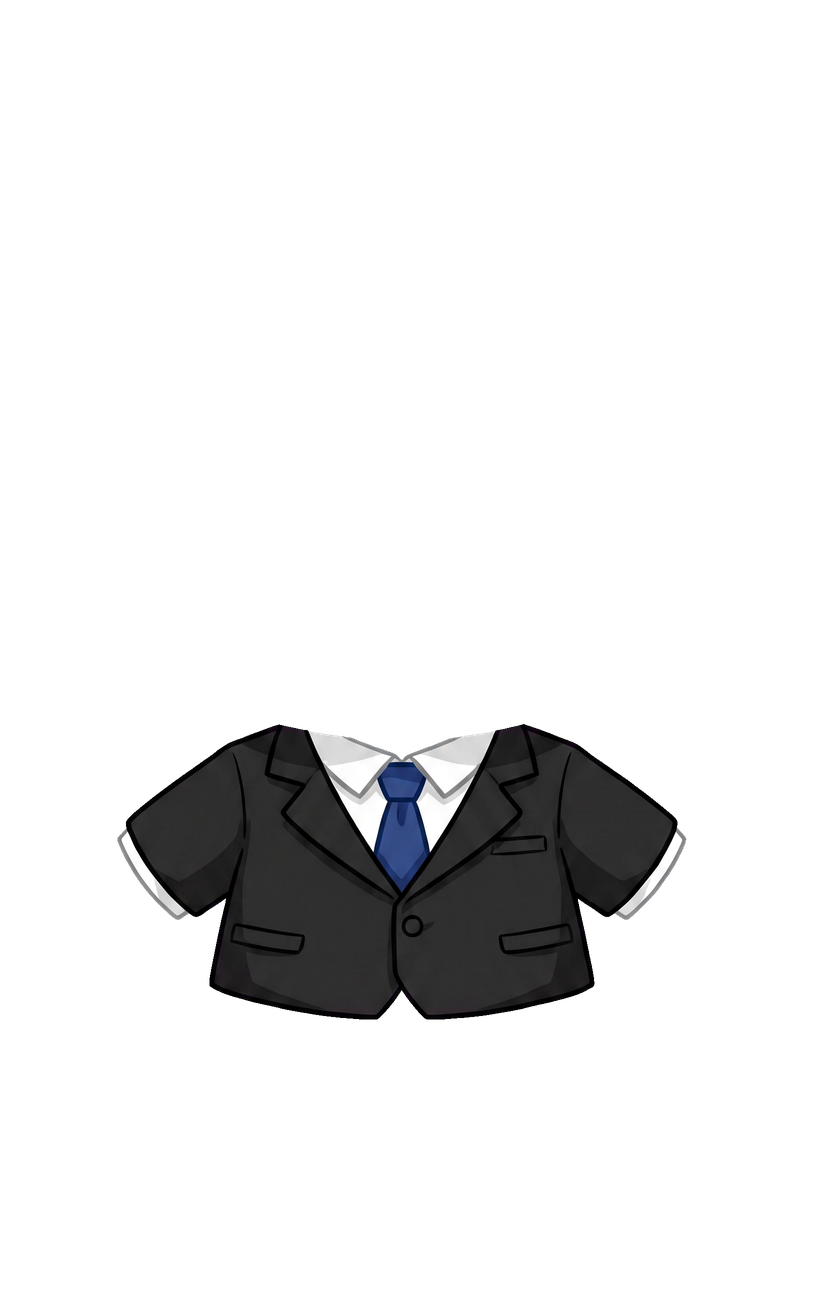
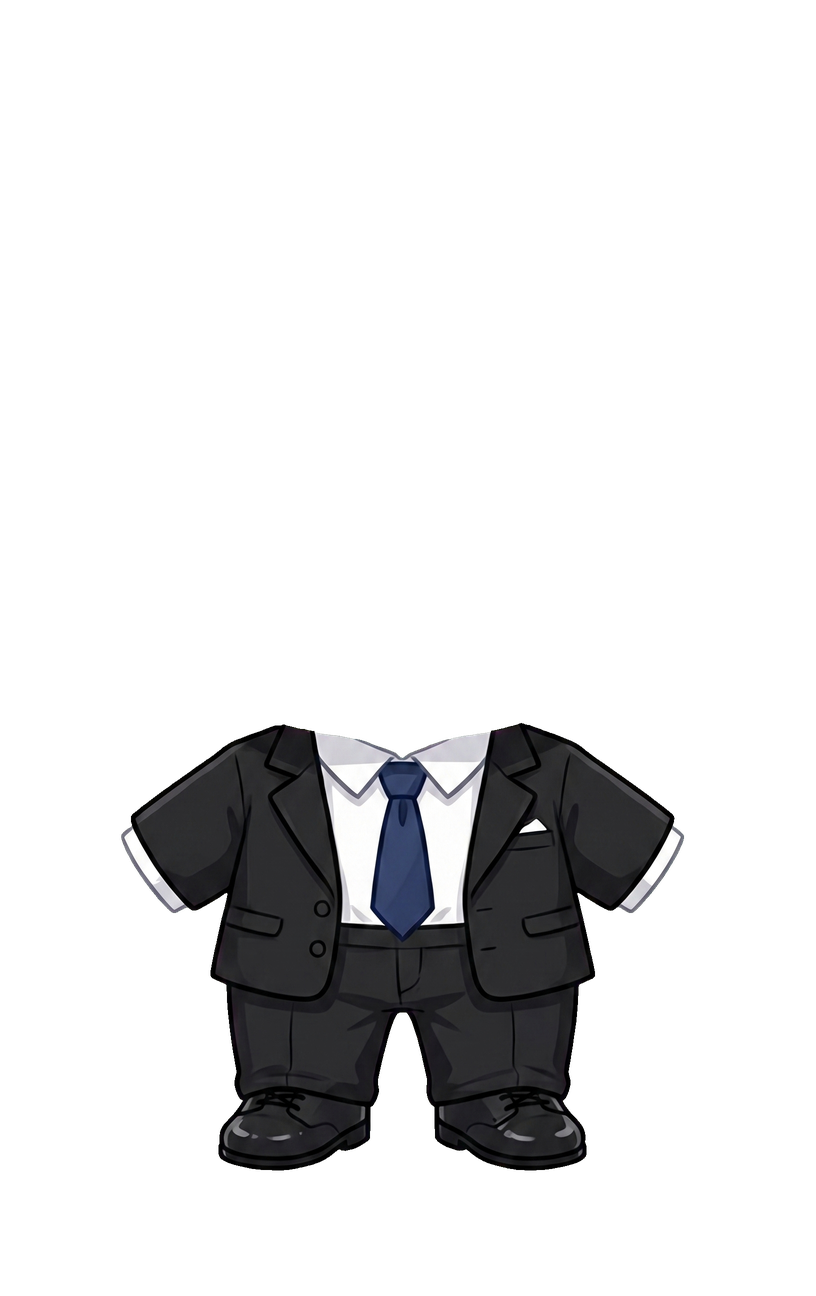
Add suit pants + shrink base 1% to hide skin edge
- outfit_suit.png now includes trousers and shoes
- base layer scaled 0.99 (preview + canvas) per user feedback

Changed region(s): [[0.2451, 0.5556, 0.8578, 0.9259], [0.1532, 0.5864, 0.2757, 0.7099], [0.7353, 0.5864, 0.7966, 0.6173]]

diff --git a/index.html b/index.html
@@ -347,6 +347,8 @@ sortedParts.forEach(part => {
   img.alt = part.name;
   img.style.zIndex = part.zIndex;
   img.style.display = 'none'; // 預設隱藏
+  // 素體縮小 1%，避免穿衣後素體邊緣從服裝外側露出細邊
+  if (part.type === 'base') img.style.transform = 'scale(0.99)';
   stage.appendChild(img);
   imgEls[part.id] = img;
 });
@@ -546,7 +548,12 @@ document.getElementById('btn-download').addEventListener('click', async () => {
   })));
 
   visibleParts.forEach(p => {
-    ctx.drawImage(imgEls[p.id], 0, 0, ORIG_W, ORIG_H);
+    if (p.type === 'base') {
+      // 與預覽一致：素體縮 1% 置中，避免邊緣露出
+      ctx.drawImage(imgEls[p.id], ORIG_W * 0.005, ORIG_H * 0.005, ORIG_W * 0.99, ORIG_H * 0.99);
+    } else {
+      ctx.drawImage(imgEls[p.id], 0, 0, ORIG_W, ORIG_H);
+    }
   });
 
   // 觸發下載（file:// 直接開啟時 canvas 會被瀏覽器標為 tainted，給友善提示）